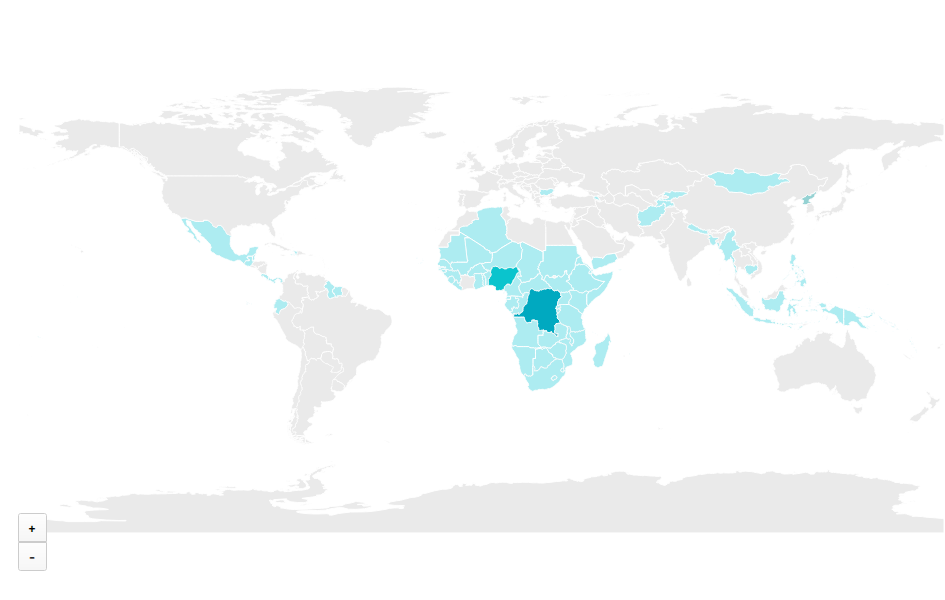
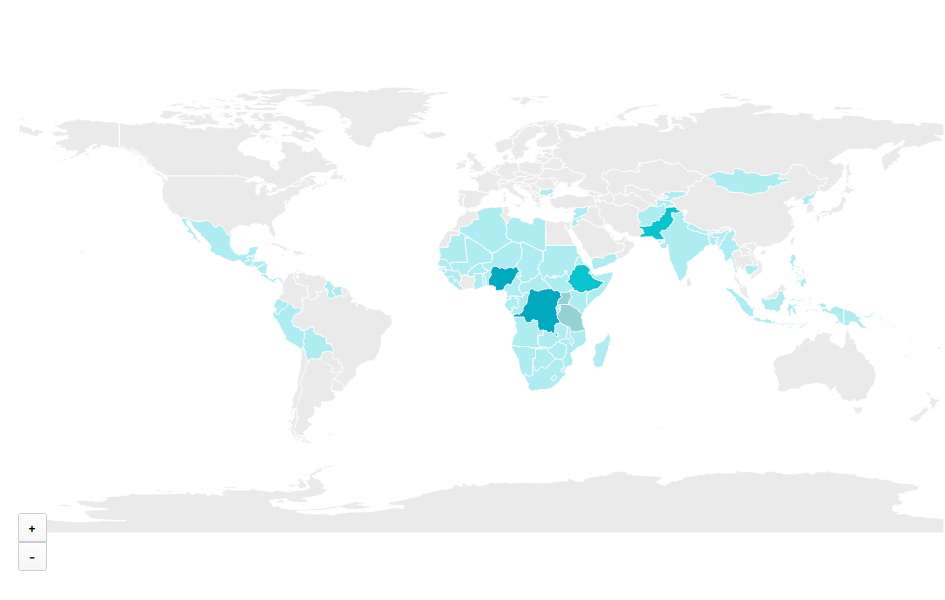
home page updates

diff --git a/src/app/pages/home-page/home-page.component.html b/src/app/pages/home-page/home-page.component.html
@@ -1,14 +1,15 @@
-<div fxLayoutAlign="space-between start" fxLayoutGap="4em">
-  <div fxFlex="60" fxLayout="column" fxLayoutGap="4em">
-    <div>
+<div fxLayout="column" fxLayoutGap="2em">
+  <div fxLayoutAlign="space-between stretch" fxLayoutGap="2em">
+    <div fxFlex="60">
       <h1 class="mat-display-2">
         Affordable, Sustainable, Clean <br />
         Energy Solutions for ALL.
       </h1>
       <p class="mat-subheading">
-        We support transition to a low-carbon economy by ??.
+        We support transition to a low-carbon economy by extending the life of
+        used solar panels.
       </p>
-      <div fxLayoutAlign="start center" fxLayoutGap="4em">
+      <div fxLayoutAlign="start center" fxLayoutGap="2em">
         <div fxLayout="column">
           <div class="mat-title">Are you a NGO?</div>
           <a routerLink="/buy" mat-raised-button color="accent">
@@ -16,32 +17,45 @@
           </a>
         </div>
         <div fxLayout="column">
-          <div class="mat-title">Are you a Seller?</div>
+          <div class="mat-title">Join Our Journey</div>
           <a routerLink="/sell" mat-raised-button color="primary">
             Sell / Donate Panels
           </a>
         </div>
       </div>
     </div>
-    <mat-card class="mat-elevation-z8">
-      <h3 class="mat-title">
-        Population without access to electricity, millions of people (Urban)
-      </h3>
-      <div class="image">
-        <img src="/assets/map.png" alt="map" />
-      </div>
-    </mat-card>
-  </div>
-  <div fxFlex="40" fxLayout="column" fxLayoutGap="4em">
-    <mat-card fxLayout="column" fxLayoutAlign="center" class="mat-elevation-z8">
+    <mat-card
+      fxFlex="40"
+      fxLayout="column"
+      fxLayoutAlign="center"
+      class="mat-elevation-z8"
+    >
       <h3 class="mat-headline">CO2 Emission Reduced</h3>
       <p class="mat-display-3">25.5 tons/year</p>
     </mat-card>
-    <mat-card fxFlex class="mat-elevation-z8">
-      <app-profile-meter-chart></app-profile-meter-chart>
-    </mat-card>
-    <mat-card fxFlex class="mat-elevation-z8">
-      <app-donut-chart></app-donut-chart>
-    </mat-card>
+  </div>
+  <div fxLayoutAlign="space-between stretch" fxLayoutGap="2em">
+    <div fxFlex="60" fxLayout="column" fxLayoutGap="2em">
+      <mat-card class="mat-elevation-z8">
+        <h3 class="mat-title">
+          Population without access to electricity, millions of people (Total)
+        </h3>
+        <div class="image">
+          <img src="/assets/map.png" alt="map" />
+        </div>
+        <br />
+        <div class="image-2">
+          <img src="/assets/map-tags.png" alt="map" />
+        </div>
+      </mat-card>
+    </div>
+    <div fxFlex="40" fxLayout="column" fxLayoutGap="2em">
+      <mat-card fxFlex class="mat-elevation-z8">
+        <app-profile-meter-chart></app-profile-meter-chart>
+      </mat-card>
+      <mat-card fxFlex class="mat-elevation-z8">
+        <app-donut-chart></app-donut-chart>
+      </mat-card>
+    </div>
   </div>
 </div>

diff --git a/src/app/business/charts/profile-meter-chart/profile-meter-chart.component.html b/src/app/business/charts/profile-meter-chart/profile-meter-chart.component.html
@@ -1,9 +1,5 @@
 <div fxLayout="column" fxLayoutGap="1em">
-  <h3 class="mat-title">Projects Financed - Be a part of the Journey</h3>
-  <small class="mat-subheading">
-    Each return for your investment at a fixed rate, while the community
-    benefits.
-  </small>
+  <h3 class="mat-title">Projects Financed</h3>
   <div class="ra-meter-component-wrapper">
     <round-progress
       class="ra-meter-component"
@@ -32,11 +28,9 @@
     <div fxLayoutAlign="space-between center" class="labels">
       <div fxLayout="column" fxLayoutAlign="center start">
         <div class="mat-body-1">0 %</div>
-        <div class="mat-caption">Received</div>
       </div>
       <div fxLayout="column" fxLayoutAlign="center end">
         <div class="mat-body-1">100 %</div>
-        <div class="mat-caption">Target</div>
       </div>
     </div>
   </div>

diff --git a/src/app/business/charts/donut-chart/donut-chart.component.html b/src/app/business/charts/donut-chart/donut-chart.component.html
@@ -1,6 +1,6 @@
 <div class="chart">
   <h3 class="mat-title">Projects Funded</h3>
-  <div fxLayoutAlign="center start" fxLayoutGap="1em" class="content">
+  <div fxLayoutAlign="center start" fxLayoutGap="1em">
     <div class="graph">
       <img width="220" src="../../../assets/Graph.png" />
     </div>

diff --git a/src/app/pages/home-page/home-page.component.scss b/src/app/pages/home-page/home-page.component.scss
@@ -7,3 +7,10 @@
     border: 1px solid #e1e1e1;
   }
 }
+.image-2 {
+  img {
+    width: calc(100% - 2em);
+    padding: 1em;
+    border: 1px solid #e1e1e1;
+  }
+}

diff --git a/src/app/business/charts/profile-meter-chart/profile-meter-chart.component.scss b/src/app/business/charts/profile-meter-chart/profile-meter-chart.component.scss
@@ -17,7 +17,6 @@
 
 .ra-meter-component-wrapper {
   position: relative;
-  margin: 3rem auto 2rem;
   min-width: 310px;
 }
 
